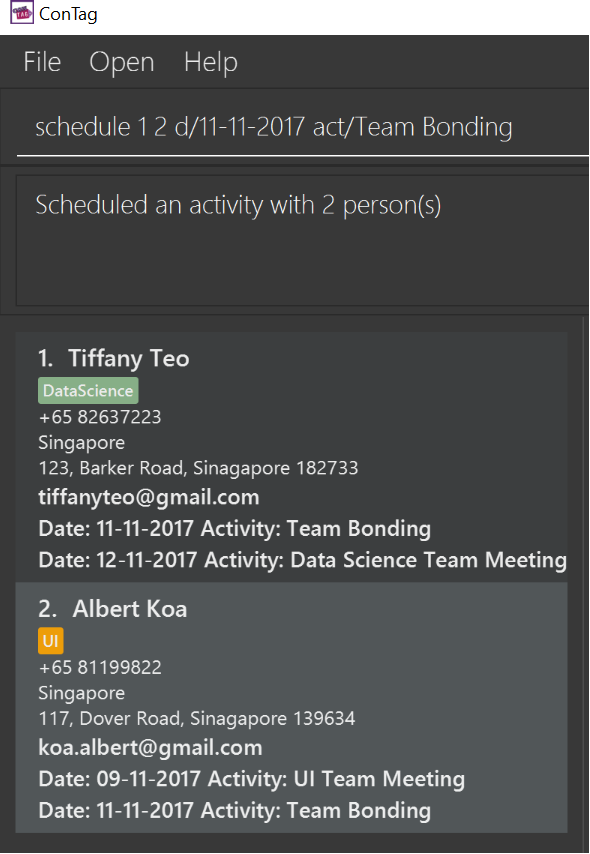
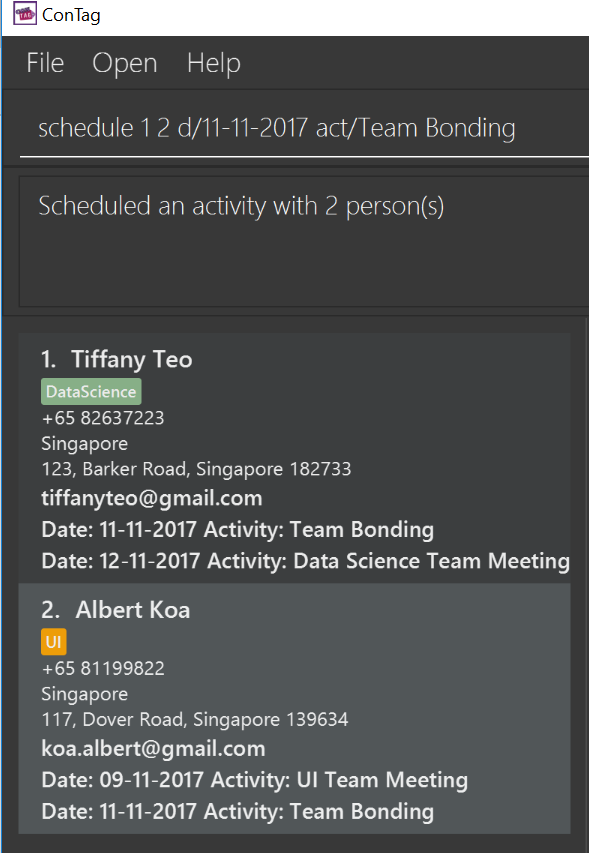
Developer Guide

diff --git a/src/main/java/seedu/address/ui/PersonCard.java b/src/main/java/seedu/address/ui/PersonCard.java
@@ -27,9 +27,9 @@ public class PersonCard extends UiPart<Region> {
      *
      * @see <a href="https://github.com/se-edu/addressbook-level4/issues/336">The issue on AddressBook level 4</a>
      */
-    private static String[] colors = {"blue", "orange", "brown", "green", "pink",
-        "black", "royalblue", "salmon", "tomato", "teal",
-        "darkseagreen", "cornflowerblue", "hotpink", "yellowgreen", "palevioletred", "lightsteelblue", "lightcyan"};
+    private static String[] colors = {"#009B77", "DD4124", "D65076", "#45BBAC", "#EFC050",
+        "#5B5EA6", "#9B2335", "#55B4B0", "#E15D44", "#7FCDCD",
+        "#BC243C", "#C3447A", "#98B4D4", "#DFCFBE"};
     private static HashMap<String, String> tagColors = new HashMap<>();
     private static Random random = new Random();
 

diff --git a/src/main/java/seedu/address/model/schedule/Activity.java b/src/main/java/seedu/address/model/schedule/Activity.java
@@ -42,7 +42,7 @@ public class Activity {
     public boolean equals(Object other) {
         return other == this // short circuit if same object
                 || (other instanceof Activity // instanceof handles nulls
-                && this.value.equals(((Activity) other).value)); // state check
+                && this.value.equalsIgnoreCase(((Activity) other).value)); // state check
     }
 
     @Override
